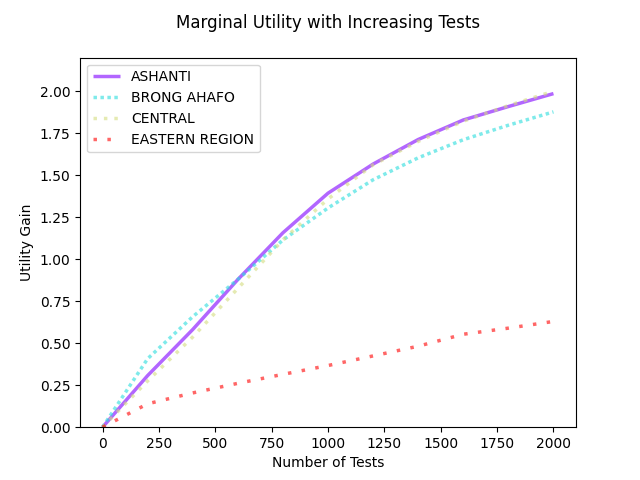
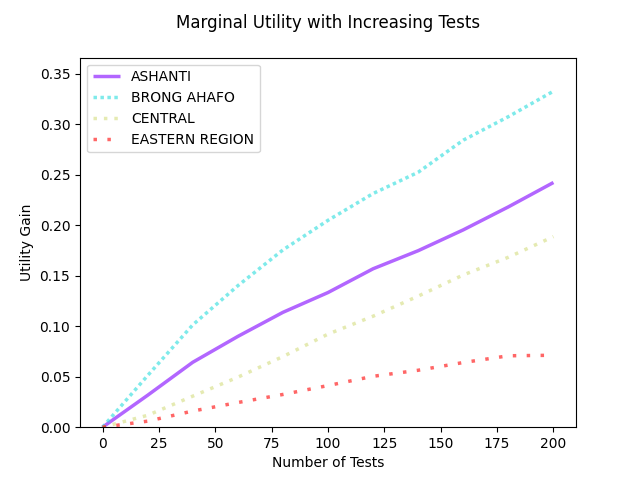
linearized weights matrix added

diff --git a/bayesianexperimentation/bayesianexperimentaldesign.py b/bayesianexperimentation/bayesianexperimentaldesign.py
@@ -1218,21 +1218,15 @@ def getDesignUtility(priordatadict, lossdict, designlist, numtests, designnames=
             YMat = np.random.binomial(NMat, zMat[datadrawinds]) # How many samples were positive
             tempW = np.zeros(shape=(numpriordraws,numdrawsfordata))
             for nodeInd in range(numSN):
-
-                bigzMat = np.transpose(np.reshape(np.tile(zMat, numdrawsfordata), (numpriordraws, numdrawsfordata,numSN)),
-                                       axes=(0,1,2))
-                bigNMat = np.transpose(np.reshape(np.tile(NMat, numpriordraws), (numdrawsfordata,numpriordraws, numSN)),
-                                       axes=(1,0,2))
-                bigYMat = np.transpose(np.reshape(np.tile(YMat, numpriordraws), (numdrawsfordata, numpriordraws, numSN)),
-                                        axes=(1, 0, 2))
-                combNY = np.transpose(np.reshape(np.tile(sps.comb(NMat, YMat),numpriordraws),
-                                                  (numdrawsfordata,numpriordraws,numSN)),axes=(1,0,2))
-                tempW += (bigYMat*np.log(bigzMat))+((bigNMat-bigYMat)*np.log(1-bigzMat))+np.log(combNY)
-
-            wtsMat = np.exp(np.sum((bigYMat*np.log(bigzMat))+((bigNMat-bigYMat)*np.log(1-bigzMat))+np.log(combNY),axis=2))
+                # Get zProbs corresponding to current SN
+                bigZtemp = np.transpose(np.reshape(np.tile(zMat[:,nodeInd], numdrawsfordata), (numdrawsfordata, numpriordraws )))
+                bigNtemp = np.reshape(np.tile(NMat[:, nodeInd], numpriordraws), (numpriordraws, numdrawsfordata))
+                bigYtemp = np.reshape(np.tile(YMat[:, nodeInd], numpriordraws), (numpriordraws, numdrawsfordata))
+                combNYtemp = np.reshape(np.tile(sps.comb(NMat[:, nodeInd], YMat[:, nodeInd]),numpriordraws), (numpriordraws, numdrawsfordata))
+                tempW += (bigYtemp*np.log(bigZtemp))+((bigNtemp-bigYtemp)*np.log(1-bigZtemp))+np.log(combNYtemp)
+            wtsMat = np.exp(tempW)
             # Normalize so that each column sums to 1
-            wtsMat = np.divide(wtsMat * 1, np.reshape(np.tile(np.sum(wtsMat, axis=0), numpriordraws),
-                                                                  (numpriordraws, numdrawsfordata)))
+            wtsMat = np.divide(wtsMat * 1, np.reshape(np.tile(np.sum(wtsMat, axis=0), numpriordraws), (numpriordraws, numdrawsfordata)))
             wtLossMat = np.matmul(lossdict['lossMat'],wtsMat)
             wtLossMins = wtLossMat.min(axis=0)
             lossveclist.append(np.average(wtLossMins))
@@ -1550,7 +1544,7 @@ def GetMargUtilAtNodes(scDict, testMax, testInt, lossDict, utilDict, printUpdate
         indsforbayes = choice(np.arange(len(scDict['postSamples'])),size=utilDict['numdrawsforbayes'],replace=False)
     else:
         indsforbayes = np.arange(len(scDict['postSamples']))
-    if utilDict['method']=='weightsNodeDraw3' or utilDict['method']=='weightsNodeDraw4':
+    if utilDict['method']=='weightsNodeDraw3' or utilDict['method']=='weightsNodeDraw4' or utilDict['method']=='weightsNodeDraw3linear':
         if printUpdate == True:
             print('Generating loss matrix of size: '+str(len(scDict['postSamples'])*len(indsforbayes)))
         lossMat = lossMatrixLinearized(scDict['postSamples'],lossDict.copy(),indsforbayes)
@@ -2933,14 +2927,14 @@ def allocationCaseStudy():
     lossDict = {'scoreDict': scoredict, 'riskDict': riskdict, 'marketVec': marketvec}
 
     # Utility calculation specification
-    numbayesdraws, numdrawsfordata = 2000, 2100
-    utilDict = {'method': 'weightsNodeDraw3'}
+    numbayesdraws, numdrawsfordata = 5000, 5100
+    utilDict = {'method': 'weightsNodeDraw3linear'}
     utilDict.update({'numdrawsfordata': numdrawsfordata})
     utilDict.update({'numdrawsforbayes': numbayesdraws})
 
     # Set limits of data collection and intervals for calculation
-    testMax, testInt = 200, 50
-    numdrawstouse = int(5000000 / numbayesdraws)
+    testMax, testInt = 200, 20
+    numdrawstouse = int(26000000 / numbayesdraws)
 
     # Withdraw a subset of MCMC prior draws
     dictTemp = CSdict3.copy()
@@ -2979,23 +2973,7 @@ def allocationCaseStudy():
     ##############
     '''
 
-    ##### REMOVE LATER
-    desLst = [np.array([1.,0.,0.,0.])]
-    indsforbayes = choice(np.arange(len(dictTemp['postSamples'])), size=utilDict['numdrawsforbayes'], replace=False)
-    lossMat = lossMatrixLinearized(dictTemp['postSamples'], lossDict.copy(), indsforbayes)
-    lossDict.update({'lossMat': lossMat})
-
-    ff = getDesignUtility(priordatadict=dictTemp.copy(), lossdict=lossDict.copy(), designlist=desLst.copy(), numtests=50,utildict=utilDict.copy())
-    print(ff)
-    #getDesignUtility(priordatadict, lossdict, designlist, numtests, designnames=[], utildict={})
-
-    start = time.process_time()
-    currMargUtilMat = GetMargUtilAtNodes(dictTemp, testMax, testInt, lossDict.copy(), utilDict, printUpdate=True)
-    print(round(time.process_time()-start,1))
-    ##### END REMOVE LATER
-
-
-
+    currMargUtilMat = GetMargUtilAtNodes(dictTemp.copy(), testMax, testInt, lossDict.copy(), utilDict.copy(), printUpdate=True)
     print(repr(currMargUtilMat))
     plotMargUtil(currMargUtilMat,testMax,testInt,labels=dictTemp['outletNames'])
     ''' 
